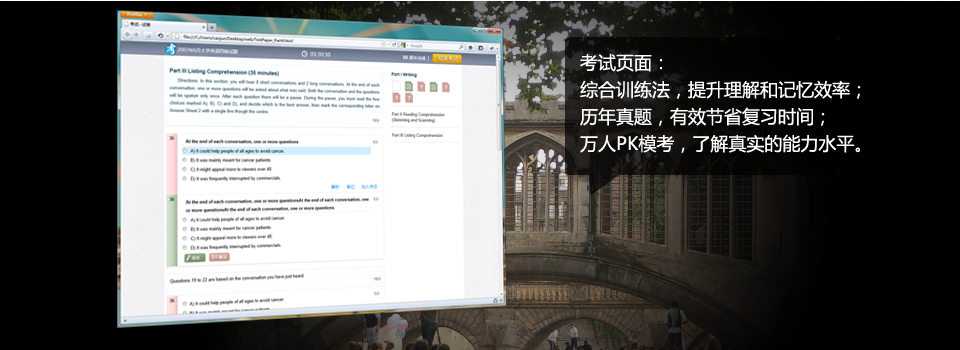
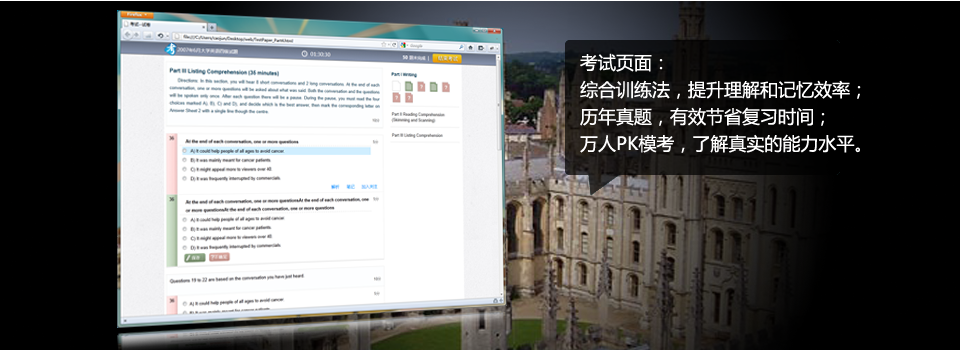
update exam_user

Changed region(s): [[0.125, 0.0, 0.7812, 1.0]]

diff --git a/public/stylesheets/style.css b/public/stylesheets/style.css
@@ -52,8 +52,8 @@ img { border: none;}
 .main_index_con { width: 960px; margin: 20px auto; overflow: hidden;}
 .pd_con_box { width: 160px; float: left; margin: 0 16px; display: inline;}
 .pd_h { width: 146px; height: 35px; text-indent: -999px; overflow: hidden;}
-.pd_text { font-size: 14px; color: #333; font-family: "微软雅黑"; line-height: 24px; padding: 10px;}
-.pd_text p { text-indent: 24px; line-height: 24px;}
+.pd_text { font-size: 13px; color: #333; font-family: "微软雅黑"; line-height: 24px; padding: 10px;}
+.pd_text p { line-height: 24px;}
 
 .pd_mn { background: url(/images/paper/all_bg.png) no-repeat 0 -721px;}
 .pd_zt { background: url(/images/paper/all_bg.png) no-repeat -227px -721px;}
@@ -411,13 +411,15 @@ img { border: none;}
 .zh_position_five { background: url(/images/paper/zh_tab_5.png) no-repeat;}
 
 
-.zh_top { height: 50px; margin: 20px 0; padding-left: 50px;}
+.zh_top { height: 50px; margin: 20px 0 10px 0; padding-left: 50px;}
 .zh_load { width: 600px; float: left; display: inline;}
 .load_bg { width: 600px; height: 40px; background: url(/images/paper/load_bg.png) no-repeat; position: relative;}
 .load_t { width: 500px; height: 40px; background: url(/images/paper/load_t.png) no-repeat;}
 .load_text { text-align: center; width: 600px; height: 40px; line-height: 40px; font-size: 14px; color: #F00; position: absolute; top: 0px; left: 0px;}
 .zh_addTo_btn { width: 160px; float: left; height: 35px; margin: 2px 0 0 30px;}
 .zh_addTo_btn a { width: 160px; height: 35px; display: block; margin: 0 auto; background: url(/images/paper/all_bg.png) no-repeat -198px -440px; text-indent: -999px; overflow: hidden;}
+
+.zh_top_text { line-height: 24px; margin-bottom: 20px; padding-left: 50px;}
 
 
 .zh_p { width: 119px; height: 23px; padding-left: 30px;}
@@ -480,7 +482,7 @@ img { border: none;}
 
 /*综合训练2*/
 
-.tb_con_list { padding: 10px; border: 1px #CCC solid; margin-top: 10px;}
+.tb_con_list { padding: 10px; border: 1px #CCC solid; margin-top: 10px; height: 1%;}
 .explain_btn { width: 60px; height:27px; display: block; overflow: hidden; text-indent: 999px; background: url(/images/paper/all_bg.png) no-repeat -127px -157px; margin-left: 400px;}
 .explain_btn_task2 { width: 60px; height:27px; float: left; background: url(/images/paper/all_bg.png) no-repeat -127px -157px; margin-left: 400px;}
 

diff --git a/public/stylesheets/TestPaper.css b/public/stylesheets/TestPaper.css
@@ -83,6 +83,7 @@ img { border: none;}
 .p_question_list {border-bottom: 1px #eaeaea solid; position: relative;}
 
 .answer_text { padding: 10px;}
+.answer_text input { padding: 0 10px;}
 
 .answer_textarea { }
 .answer_textarea textarea { padding: 5px; width: 95%; height: 180px; margin: 10px 0 10px 15px;}
@@ -110,8 +111,8 @@ img { border: none;}
 .q_drag_con { line-height: 24px;}
 .task_con p { text-indent: 24px;}
 
-.task3_li { overflow: hidden; color: #333; border-bottom: 1px #EAEAEA solid; padding: 10px 0; height: 1%; position: relative; z-index: 100px;}
-.task3_li li {height: 25px; border: 1px #CCC solid; text-align: center; line-height: 25px; margin: 5px 7px; padding: 0 10px; float: left;}
+.task3_li { overflow: hidden; color: #333; border-bottom: 1px #EAEAEA solid; padding: 10px 0; height: 1%;}
+.task3_li li {height: 25px; border: 1px #CCC solid; text-align: center; line-height: 25px; margin: 5px 7px; padding: 0 10px; float: left; position: relative; z-index: 100;}
 .task3_li li.dropOver { border: 1px #f0f0f0 solid; background: #f9f9f9; color: #cccccc;}
 .task_span { padding: 0 5px; border-bottom: 1px #CCC solid;}
 
@@ -163,7 +164,10 @@ img { border: none;}
 .tp_right_box { width: 240px; margin: 0 auto; position: fixed; _position: absolute; _top: expression(eval(documentElement.scrollTop + 50));}
 .first_title { font-size: 13px; color: #333; overflow: hidden; clear: both; cursor: pointer; background: url(/images/paper/xline.png) repeat-x center bottom; padding: 10px 0;}
 .first_title p { padding: 5px; line-height: 18px; clear: both;}
-.second_menu li { float: left; margin: 2px 8px; overflow: hidden; height: 32px;}
+.second_menu li { float: left; margin: 2px 5px; overflow: hidden; height: 32px; width: 31px; border: 1px #CCC solid; font-size: 16px; font-family: "微软雅黑";}
+.second_menu li a { width: 31px; height: 32px; display: block; line-height: 32px; text-align: center; text-decoration: none; color: #333;}
+.second_menu li a.lvse { background: url(/images/paper/second_menu_bg.jpg) no-repeat -35px bottom;}
+.second_menu li a.fenhong { background: url(/images/paper/second_menu_bg.jpg) no-repeat 0 bottom;}
 .highLight { color: #164a63; font-size: 14px; font-weight:bold;}
 .first_title ul { padding: 5px 0 0 0; overflow: hidden;}
 

diff --git a/app/models/exam_user.rb b/app/models/exam_user.rb
@@ -132,7 +132,7 @@ class ExamUser < ActiveRecord::Base
 
   #生成考生综合考试result文件
   def create_practice_result_url(str, path)
-    dir = "#{Rails.root}/public/" + path
+    dir = "#{Rails.root}/public/" + path + "/#{self.examination_id}"
     unless File.directory?(dir)
       Dir.mkdir(dir)
     end
@@ -141,7 +141,7 @@ class ExamUser < ActiveRecord::Base
     f=File.new(url,"w")
     f.write("#{str.force_encoding('UTF-8')}")
     f.close
-    return "/" + path + file_name
+    return "/" + path + "/#{self.examination_id}" + file_name
   end
 
   #下一步
